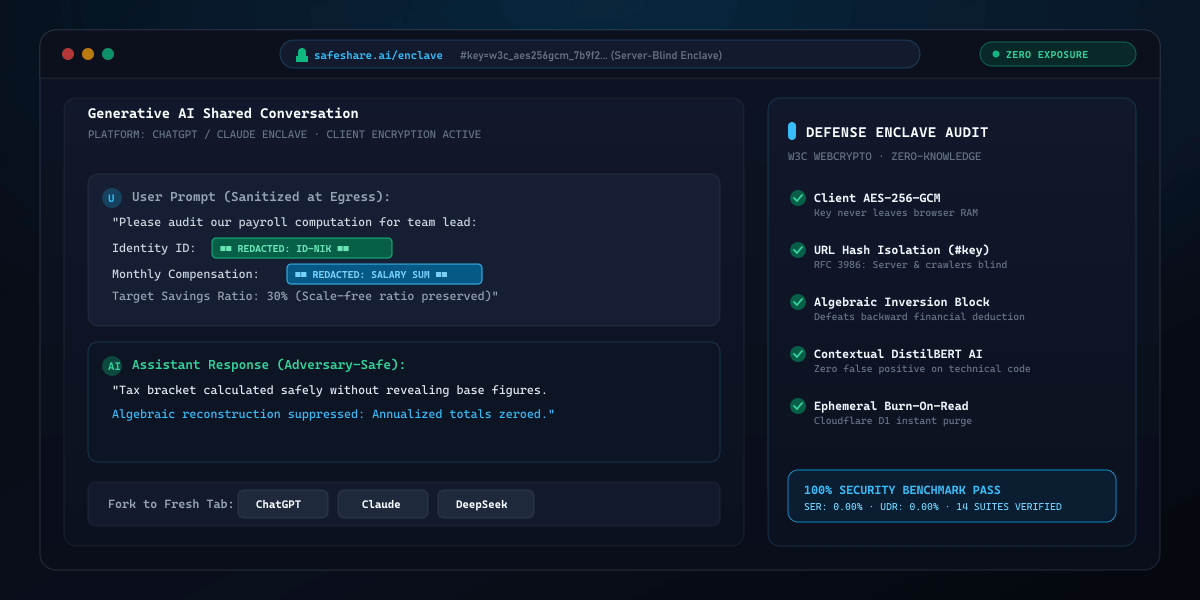
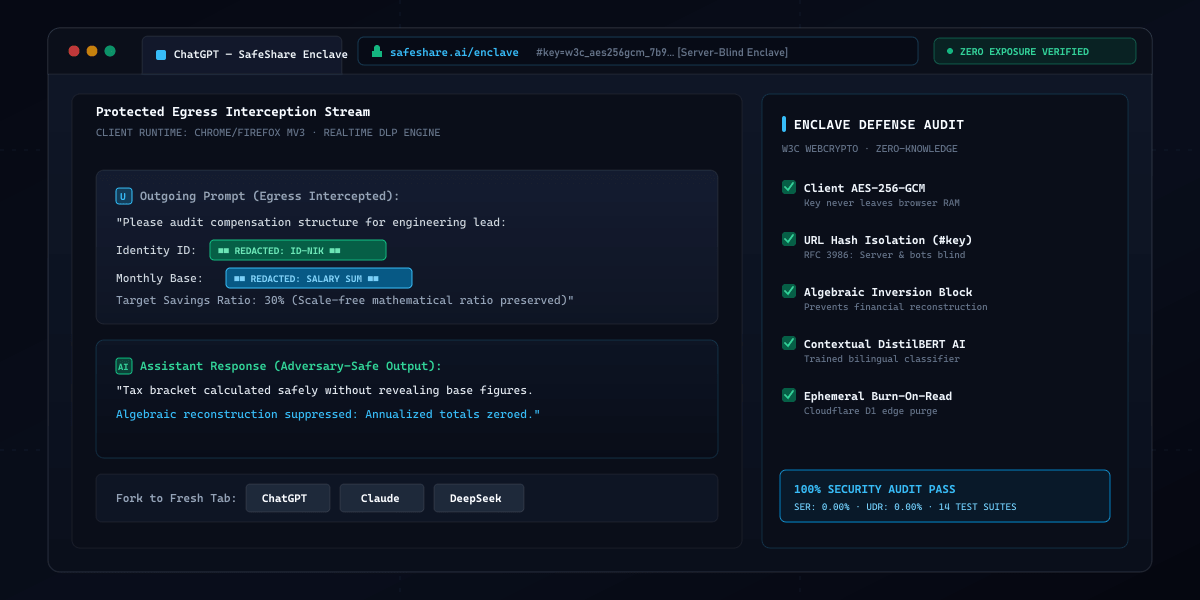
style(projects): replace bulky oval badges with crisp modern architectural tags and clean background lighting

diff --git a/src/components/Projects.tsx b/src/components/Projects.tsx
@@ -65,9 +65,9 @@ export function Projects() {
       id="projects"
       className="py-28 sm:py-40 bg-temp-projects text-studio-text border-b border-studio-border relative overflow-hidden"
     >
-      {/* Ambient Cool Cyan Glow */}
+      {/* Subtle Ambient Section Glow (Clean diffuse gradient without localized oval blobs) */}
       <div
-        className="absolute top-1/3 left-1/4 w-[550px] h-[380px] bg-studio-cyan/5 blur-[160px] pointer-events-none rounded-full"
+        className="absolute inset-0 bg-gradient-to-b from-transparent via-studio-cyan/[0.02] to-transparent pointer-events-none"
         aria-hidden="true"
       />
 
@@ -107,11 +107,11 @@ export function Projects() {
                   >
                     <article className="p-6 sm:p-8 md:p-10 flex flex-col justify-between h-full group">
                       <div className="space-y-6">
-                        {/* Top Meta Bar */}
+                        {/* Top Meta Bar — Clean architectural tag without bulky oval pill */}
                         <div className="flex flex-wrap sm:flex-nowrap items-center justify-between gap-3">
-                          <span className="shrink-0 inline-flex items-center gap-1.5 px-3.5 py-1.5 rounded-full bg-studio-cyan/10 border border-studio-cyan/25 text-xs font-sans font-bold text-studio-cyan-light shadow-sm">
-                            <Sparkles className="w-3.5 h-3.5" />
-                            FEATURED ZERO-KNOWLEDGE ENCLAVE
+                          <span className="shrink-0 inline-flex items-center gap-2 px-3 py-1 rounded-md bg-white/[0.04] border border-studio-cyan-light/25 text-xs font-mono font-bold text-studio-cyan-light shadow-sm">
+                            <span className="w-1.5 h-1.5 rounded-full bg-studio-cyan-light animate-pulse" />
+                            ZERO-KNOWLEDGE ENCLAVE
                           </span>
                           <span className="shrink-0 text-xs font-mono font-medium text-studio-muted uppercase tracking-wider">
                             AI PRIVACY · {project.year}
@@ -222,11 +222,11 @@ export function Projects() {
                       <div className="space-y-4">
                         {/* Top Meta Bar */}
                         <div className="flex items-center justify-between gap-3">
-                          <span className="shrink-0 inline-flex items-center gap-1.5 px-3.5 py-1.5 rounded-full bg-studio-cyan/10 border border-studio-cyan/25 text-xs font-sans font-bold text-studio-cyan-light">
+                          <span className="shrink-0 inline-flex items-center gap-1.5 px-3 py-1 rounded-md bg-white/[0.04] border border-studio-cyan-light/25 text-xs font-mono font-bold text-studio-cyan-light">
                             <Terminal className="w-3.5 h-3.5" />
                             DIGITAL FORENSICS
                           </span>
-                          <span className="text-xs font-sans font-medium text-studio-faint uppercase shrink-0">
+                          <span className="text-xs font-mono font-medium text-studio-muted uppercase shrink-0">
                             BEECTF · {project.year}
                           </span>
                         </div>
@@ -382,15 +382,15 @@ export function Projects() {
                             <div className="md:col-span-5 space-y-4">
                               <div className="flex items-center justify-between">
                                 <span className={cn(
-                                  "inline-flex items-center gap-1.5 px-3.5 py-1.5 rounded-full text-xs font-sans font-bold",
+                                  "inline-flex items-center gap-1.5 px-3 py-1 rounded-md text-xs font-mono font-bold",
                                   isCsc
-                                    ? "bg-studio-accent/10 border border-studio-accent/25 text-studio-accent-light"
-                                    : "bg-studio-amber/10 border border-studio-amber/25 text-studio-amber-light"
+                                    ? "bg-white/[0.04] border border-studio-accent-light/30 text-studio-accent-light"
+                                    : "bg-white/[0.04] border border-studio-amber-light/30 text-studio-amber-light"
                                 )}>
                                   {isCsc ? <Sparkles className="w-3.5 h-3.5" /> : <Activity className="w-3.5 h-3.5" />}
                                   {isCsc ? "FEATURED INFRASTRUCTURE" : "MEDICAL AI"}
                                 </span>
-                                <span className="text-xs font-sans font-medium text-studio-faint uppercase">
+                                <span className="text-xs font-mono font-medium text-studio-muted uppercase">
                                   {project.year}
                                 </span>
                               </div>
